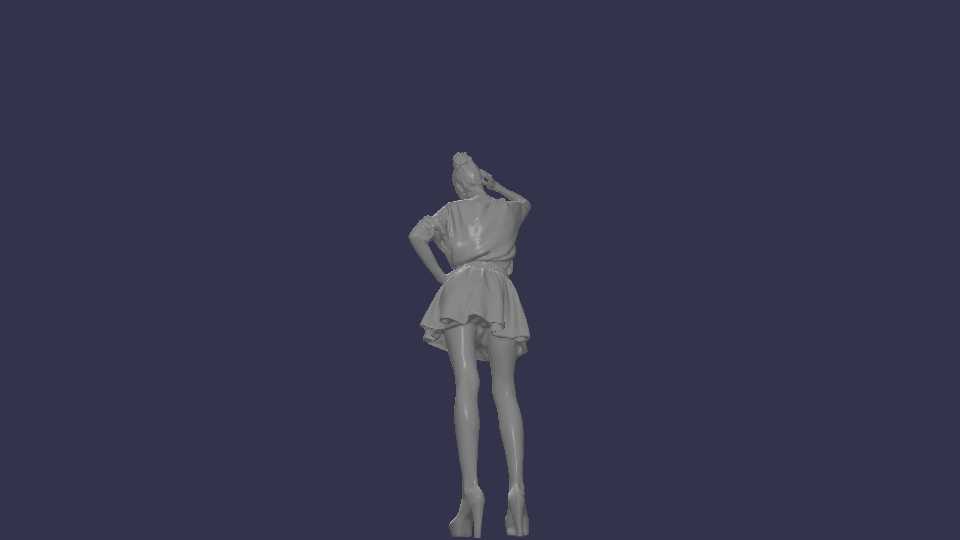
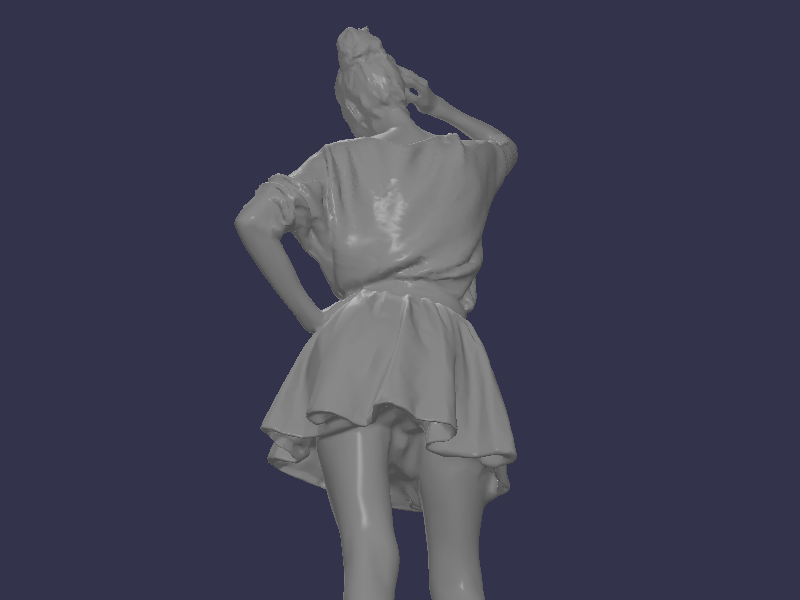
compute extrinsic and intrinsic camera parameters

Changed region(s): [[0.2812, 0.0296, 0.6562, 1.0]]

diff --git a/Photographer/Photographer.cpp b/Photographer/Photographer.cpp
@@ -11,6 +11,8 @@ Camera* Photographer::view_camera_ = nullptr;
 Photographer::Photographer(GeneralMesh* target_object)
     : object_(target_object)
 {
+    // because we plan to use normalized coordinates, it's safe for cameras to look at the origin
+    default_camera_target_ = glm::vec3(0.0f);
 }
 
 Photographer::~Photographer()
@@ -28,8 +30,8 @@ void Photographer::viewScene()
     view_camera_->setPosition(default_camera_position_);
 
     // operating the view
-    Photographer::lastX_ = 400;
-    Photographer::lastY_ = 300;
+    Photographer::lastX_ = win_width_/2;
+    Photographer::lastY_ = win_height_/2;
     first_mouse_ = true;
     last_frame_time_ = glfwGetTime();
 
@@ -61,8 +63,7 @@ void Photographer::renderToImages(const std::string path)
         std::cout << 
             "WARNING::RENDER TO FILE:: No Cameras Set; using default camera. Use addCameraToPosition() to set up cameras" 
             << std::endl;
-        Camera camera(win_width_, win_height_);
-        camera.setPosition(default_camera_position_);
+        Camera camera = createDefaultTargetCamera_();
         image_cameras_.push_back(camera);
 
         default_camera = true;
@@ -84,7 +85,7 @@ void Photographer::renderToImages(const std::string path)
 
         // Switch to default & save 
         glBindFramebuffer(GL_FRAMEBUFFER, 0);
-        saveRGBTexToFile(path + "/view_" + std::to_string(camera.getID()) + ".png",
+        saveRGBTexToFile_(path + "/view_" + std::to_string(camera.getID()) + ".png",
             texture_color_buffer_);
     }
 
@@ -93,6 +94,23 @@ void Photographer::renderToImages(const std::string path)
     if (default_camera)
     {
         image_cameras_.pop_back();
+    }
+}
+
+void Photographer::saveImageCamerasParamsCV(const std::string path)
+{
+    if (image_cameras_.size() == 0)
+    {
+        std::cout << "WARNING::SAVE CAMERA PARAMETERS :: No Cameras Set; Saving parameters of the default camera" << std::endl;
+
+        Camera camera = createDefaultTargetCamera_();
+        camera.saveParamsForOpenCV(path);
+        return;
+    }
+
+    for (auto camera : image_cameras_)
+    {
+        camera.saveParamsForOpenCV(path);
     }
 }
 
@@ -106,8 +124,7 @@ void Photographer::addCameraToPosition(float x, float y, float z)
     Camera camera(win_width_, win_height_);
     camera.setPosition(glm::vec3(x, y, z));
 
-    // since we use normalized coordinates
-    camera.setTarget(glm::vec3(0.0f));
+    camera.setTarget(default_camera_target_);
 
     image_cameras_.push_back(camera);
 }
@@ -217,6 +234,15 @@ void Photographer::setUpLight_()
         shader_->setUniform(name + ".attenuation_linear", 0.09f);
         shader_->setUniform(name + ".attenuation_quadratic", 0.032f);
     }
+}
+
+Camera Photographer::createDefaultTargetCamera_()
+{
+    Camera camera(win_width_, win_height_);
+    camera.setPosition(default_camera_position_);
+    camera.setTarget(default_camera_target_);
+    camera.setID(0);
+    return camera;
 }
 
 void Photographer::clearBackground_()
@@ -381,7 +407,7 @@ void Photographer::cleanAndCloseContext_()
     glfwTerminate();
 }
 
-void Photographer::saveRGBTexToFile(const std::string filename, unsigned int texture_id)
+void Photographer::saveRGBTexToFile_(const std::string filename, unsigned int texture_id)
 {
     glBindTexture(GL_TEXTURE_2D, texture_id);
     glPixelStorei(GL_PACK_ALIGNMENT, 1);

diff --git a/Photographer/Camera.cpp b/Photographer/Camera.cpp
@@ -3,7 +3,7 @@
 unsigned int Camera::avalible_camera_id = 1000;
 
 Camera::Camera(int screen_width, int screen_height, float field_of_view)
-    :screen_width_(screen_width), screen_height_(screen_height), field_of_view_(field_of_view)
+    :screen_width_(screen_width), screen_height_(screen_height), field_of_view_y_(field_of_view)
 {
     mode_ = FREE_MODE;
 
@@ -28,7 +28,7 @@ glm::mat4 Camera::getGlViewMatrix()
 
 glm::mat4 Camera::getGlProjectionMatrix()
 {
-    return glm::perspective(field_of_view_, screen_width_ / screen_height_, 0.1f, 100.0f);
+    return glm::perspective(glm::radians(field_of_view_y_), screen_width_ / screen_height_, 0.1f, 100.0f);
 }
 
 void Camera::setPosition(glm::vec3 pos)
@@ -114,12 +114,58 @@ void Camera::updateRotation(float delta_pitch, float delta_yaw, bool constrain_p
 
 void Camera::zoom(float delta)
 {
-    if (field_of_view_ >= 1.0f && field_of_view_ <= default_fov_)
-        field_of_view_ -= zoom_sensitivity_ * delta;
+    if (field_of_view_y_ >= 1.0f && field_of_view_y_ <= default_fov_)
+        field_of_view_y_ -= zoom_sensitivity_ * delta;
 
     // check boundaries
-    if (field_of_view_ <= 1.0f)             field_of_view_ = 1.0f;
-    if (field_of_view_ >= default_fov_)      field_of_view_ = default_fov_;
+    if (field_of_view_y_ <= 1.0f)             field_of_view_y_ = 1.0f;
+    if (field_of_view_y_ >= default_fov_)      field_of_view_y_ = default_fov_;
+}
+
+void Camera::saveParamsForOpenCV(const std::string path)
+{
+    std::cout << ID_ << ":" << std::endl;
+
+    // get extrinsic matrix -- same as the view -- or inverse?
+    glm::mat4 extrinsic = getGlViewMatrix();
+
+    std::cout << "Extrinsic :" << std::endl;
+    for (int i = 0; i < 4; ++i)
+    {
+        for (int j = 0; j < 4; ++j)
+        {
+            std::cout << extrinsic[j][i] << ", ";
+        }
+        std::cout << std::endl;
+    }
+
+    // calc intrinsic matrix
+    glm::mat3 intrinsic = glm::mat3(1.0f);  // identity
+
+    //float ratio = screen_width_ / screen_height_;
+
+    // tan(fov_x) = ratio * tan(fov_y)
+    // float pix_focal_x = screen_width_ / (2 * ratio * tan(glm::radians(field_of_view_y_) / 2));
+    // same for x and y, since we assume that apperture ratio matches the output image aspect ratio
+    float pix_focal = screen_height_ / (2 * tan(glm::radians(field_of_view_y_) / 2));
+
+    intrinsic[0][0] = pix_focal;
+    intrinsic[1][1] = pix_focal;
+    intrinsic[0][2] = screen_width_ / 2;
+    intrinsic[1][2] = screen_height_ / 2;
+
+    std::cout << "Intrinsic :" << std::endl;
+    for (int i = 0; i < 3; ++i)
+    {
+        for (int j = 0; j < 3; ++j)
+        {
+            std::cout << intrinsic[i][j] << ", ";
+        }
+        std::cout << std::endl;
+    }
+
+
+    // XML-saver?
 }
 
 void Camera::updateVectorsByRotation_()
@@ -138,7 +184,7 @@ void Camera::updateVectorsByRotation_()
 
 void Camera::updateFrontByTarget_()
 {
-    front_ = target_ - position_;
+    front_ = glm::normalize(target_ - position_);
 
     // re-calculate the Right and Up vector
     right_ = glm::normalize(glm::cross(front_, world_up_));

diff --git a/Photographer/Camera.h b/Photographer/Camera.h
@@ -25,35 +25,36 @@ public:
         FREE_MODE
     };
 
-
     Camera(int screen_width, int screen_height, float field_of_view = default_fov_);
     ~Camera();
 
+    unsigned int getID() { return ID_; }
+    glm::vec3 getPosition() { return position_; }
+    glm::vec3 getFrontVector() { return front_; }
+    
     glm::mat4 getGlViewMatrix();
     glm::mat4 getGlProjectionMatrix();
     //glm::mat4 GetCVProjectionMatrix();
 
+    // allows to set pre-defined id
+    void setID(unsigned int id) { ID_ = id; };
+
     void setPosition(glm::vec3 pos);
     void setRotation(float pitch, float yaw);
     void setTarget(glm::vec3 target);
-    //void SetFrontVector(glm::vec3 front);
 
-    // TUTORIAL
     void movePosition(Directions direction, float step_size_multiplier = 1.0f);
     void updateRotation(float delta_pitch, float delta_yaw, bool constrain_pitch = true);
     void zoom(float delta);
 
-    glm::vec3 getPosition() { return position_; }
-    glm::vec3 getFrontVector() { return front_; }
-
-    unsigned int getID() { return ID_; }
+    void saveParamsForOpenCV(const std::string path = "./");
 
 private:
     static unsigned int avalible_camera_id;
-    static constexpr float default_fov_ = 45.0f;
+    static constexpr float default_fov_ = 30.0f;
     // manipulation
     static constexpr float rotation_sensitivity_ = 0.05f;
-    static constexpr float zoom_sensitivity_ = 0.01f;
+    static constexpr float zoom_sensitivity_ = 0.1f;
     static constexpr float movement_speed_ = 2.5f;
 
     // Calculates the front vector 
@@ -79,7 +80,7 @@ private:
     glm::vec3 target_;
 
     // intrinsic 
-    float field_of_view_;
+    float field_of_view_y_;
     float screen_width_;
     float screen_height_;
 

diff --git a/Photographer/Photographer.h b/Photographer/Photographer.h
@@ -31,6 +31,7 @@ public:
 
     void viewScene();
     void renderToImages(const std::string path = "./");
+    void saveImageCamerasParamsCV(const std::string path = "./");
 
     void setObject(GeneralMesh* object);
     void addCameraToPosition(float x, float y, float z);
@@ -45,6 +46,7 @@ private:
     void createShaders_();
     void setUpObjectColor_();
     void setUpLight_();
+    Camera createDefaultTargetCamera_();
 
     // called every frame
     void clearBackground_();
@@ -58,7 +60,7 @@ private:
     void cleanAndCloseContext_();
 
     // saver!
-    void saveRGBTexToFile(const std::string filename, unsigned int texture_id);
+    void saveRGBTexToFile_(const std::string filename, unsigned int texture_id);
     
     // View Control
     void processInput_(GLFWwindow *window);
@@ -75,11 +77,12 @@ private:
     static Camera* view_camera_;
 
     // appearence control
-    float win_width_ = 960;
-    float win_height_ = 540;
+    float win_width_ = 800;
+    float win_height_ = 600;
 
     // target
     GeneralMesh* object_;
+    glm::vec3 default_camera_target_;
     unsigned int object_vertex_array_ = 0;
     unsigned int object_vertex_buffer_ = 0;
     unsigned int object_element_buffer_ = 0;
@@ -93,7 +96,6 @@ private:
     static float yaw_, pitch_;
     static float lastX_, lastY_;
     static bool first_mouse_;
-    static float fov_;
     
     // keep track of rendering speed for camera speed adjustment
     float delta_time_ = 0.0f;	// Time between current frame and last frame

diff --git a/Photographer/main.cpp b/Photographer/main.cpp
@@ -16,6 +16,7 @@ int main()
     photographer.addCameraToPosition(-1.0f, 1.0f, 3.0f);
 
     photographer.renderToImages("./images/");
+    photographer.saveImageCamerasParamsCV("./images/");
 
     photographer.viewScene();
 }
